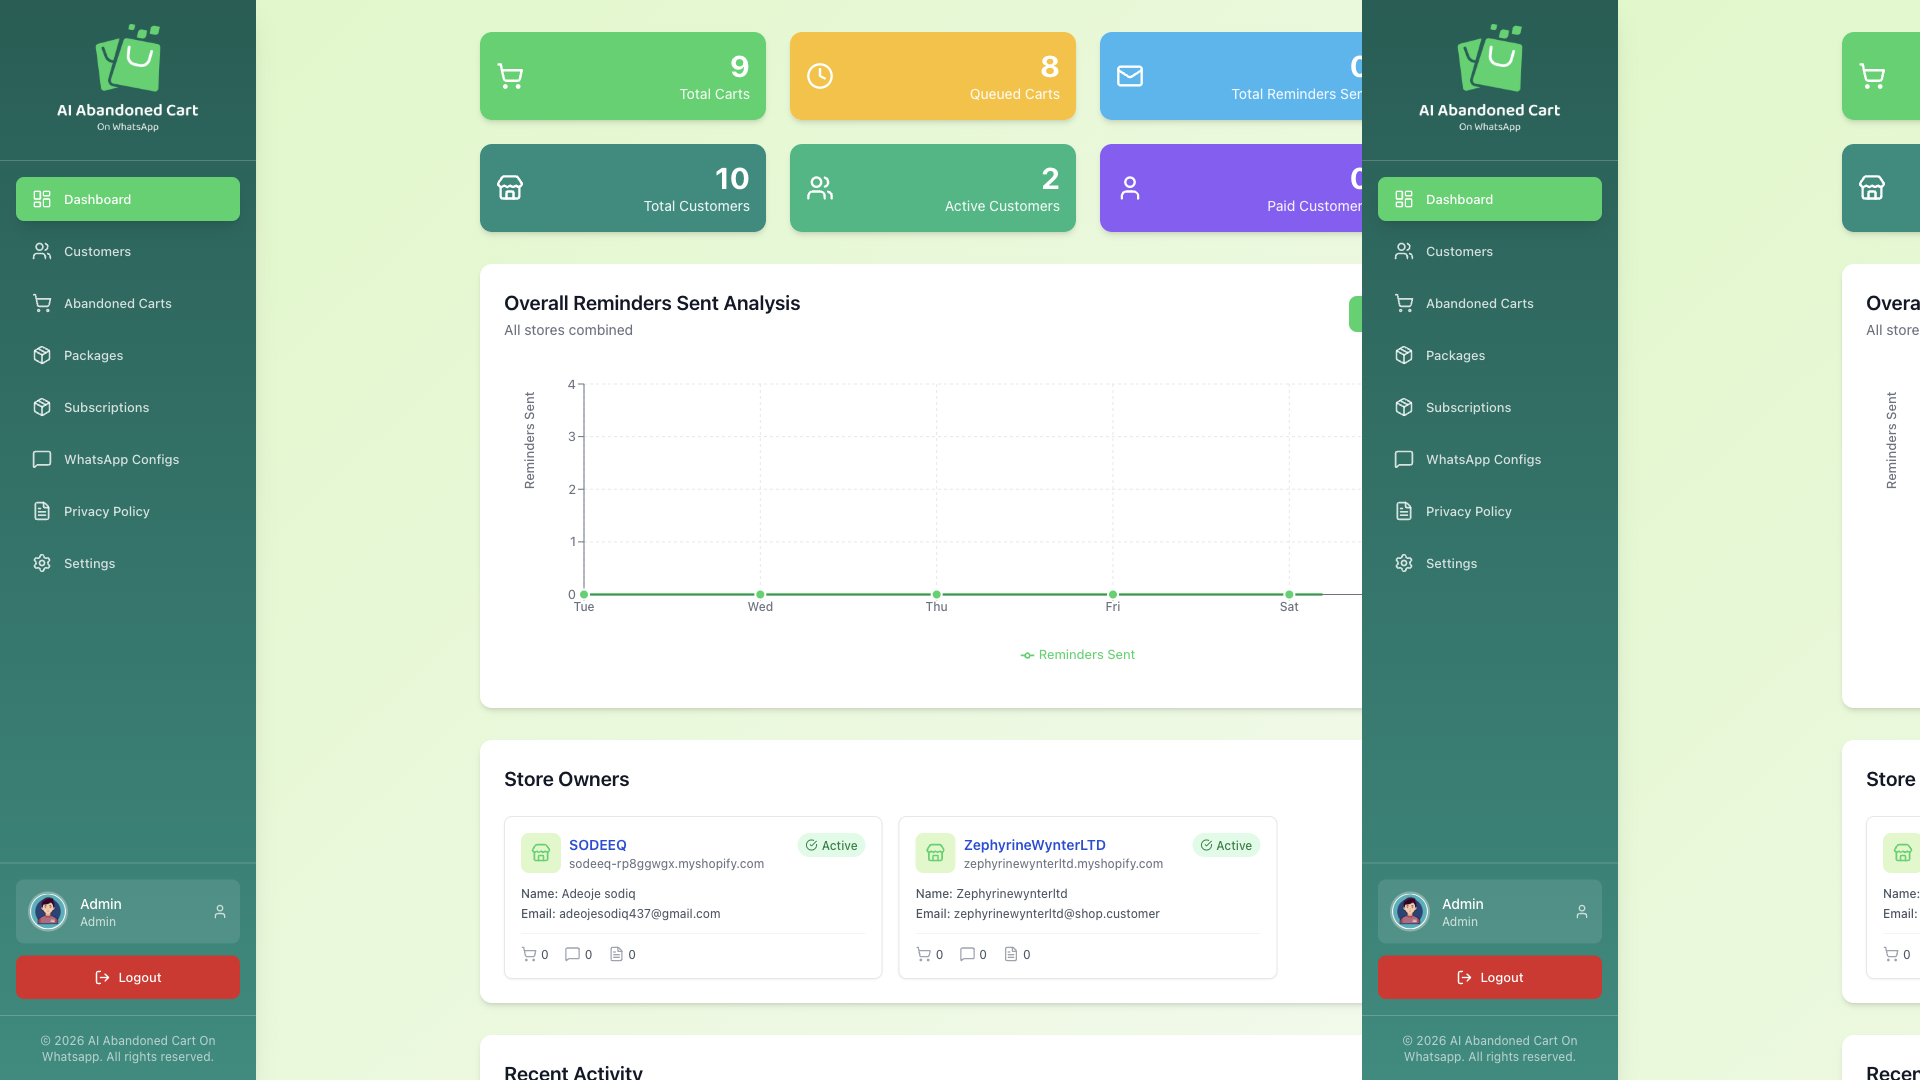
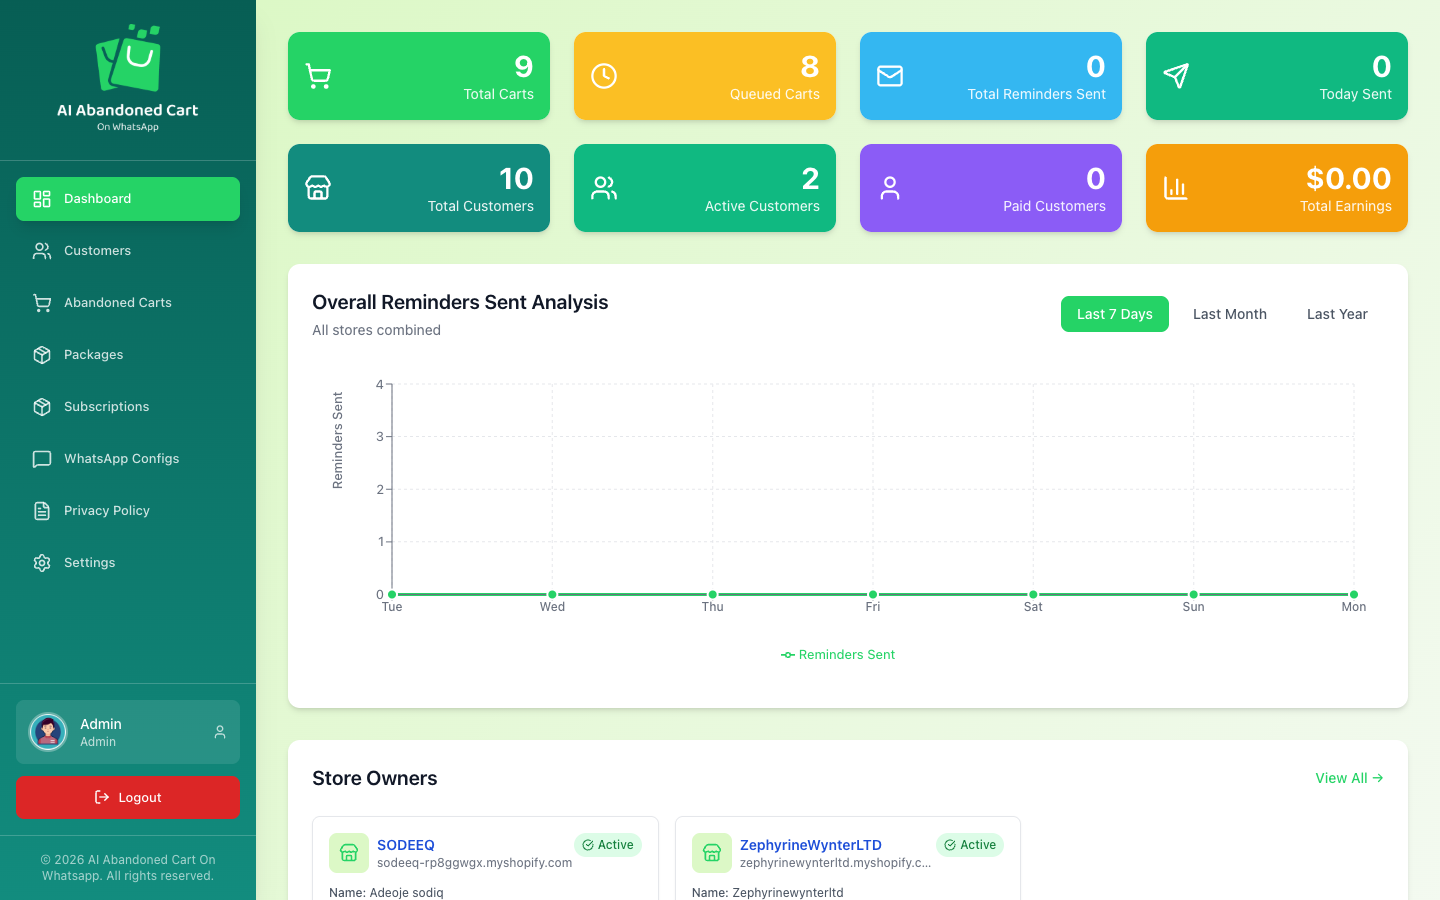
Fix tiled admin screenshots with clean 1440x900 captures.
Replace broken CDP captures and constrain README image width for readable GitHub preview.

diff --git a/README.md b/README.md
@@ -51,25 +51,39 @@ Built as a **Shopify embedded app** with App Bridge + Polaris, talking to a Lara
 
 ### Merchant app (Shopify Admin / App Store)
 
-![Abandoned carts](docs/screenshots/01-abandoned-carts.png)
+<p align="center">
+  <img src="docs/screenshots/01-abandoned-carts.png" alt="Abandoned carts" width="900" />
+</p>
 
-![WhatsApp configs](docs/screenshots/02-whatsapp-configs.png)
+<p align="center">
+  <img src="docs/screenshots/02-whatsapp-configs.png" alt="WhatsApp configs" width="900" />
+</p>
 
-![Merchant dashboard](docs/screenshots/03-dashboard.png)
+<p align="center">
+  <img src="docs/screenshots/03-dashboard.png" alt="Merchant dashboard" width="900" />
+</p>
 
-### Admin panel (full-screen, 1920×1080)
+### Admin panel
 
-![Admin dashboard](docs/screenshots/admin-01-dashboard.png)
+<p align="center">
+  <img src="docs/screenshots/admin-01-dashboard.png" alt="Admin dashboard" width="900" />
+</p>
 
-![Packages](docs/screenshots/admin-04-packages.png)
+<p align="center">
+  <img src="docs/screenshots/admin-04-packages.png" alt="Packages" width="900" />
+</p>
 
-![Subscriptions](docs/screenshots/admin-05-subscriptions.png)
+<p align="center">
+  <img src="docs/screenshots/admin-05-subscriptions.png" alt="Subscriptions" width="900" />
+</p>
 
-![WhatsApp configs (admin)](docs/screenshots/admin-06-whatsapp-configs.png)
+<p align="center">
+  <img src="docs/screenshots/admin-06-whatsapp-configs.png" alt="WhatsApp configs admin" width="900" />
+</p>
 
-![Settings](docs/screenshots/admin-07-settings.png)
-
-Additional captures in `docs/screenshots/` (`admin-02-customers`, `admin-03-abandoned-carts`) — omitted from the README body to avoid publishing live merchant/shopper contact details.
+<p align="center">
+  <img src="docs/screenshots/admin-07-settings.png" alt="Settings" width="900" />
+</p>
 
 ---
 
